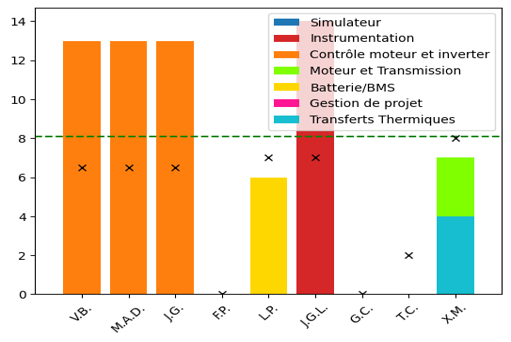
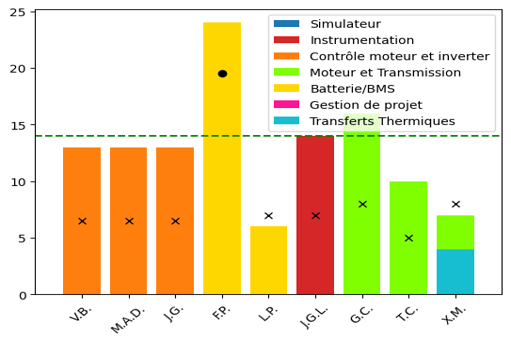
Création du template semaine6

diff --git a/tableauDeTaches.tex b/tableauDeTaches.tex
@@ -6,13 +6,13 @@
   }
     \hline
     tâches & Système & Responsable & État & Heure\\\hline
-      &   &   &   &  \\\hline
-      &   &   &   &  \\\hline
-      &   &   &   &  \\\hline
-      &   &   &   &  \\\hline
-      &   &   &   &  \\\hline
-      &   &   &   &  \\\hline
-      &   &   &   &  \\\hline
+    Créer modèle Mtalab et support modélisation D.T. transmission avec 3 scénarios, Direct Drive, 1 ratio réduction et 2 ratios de réduction & Moteur_et_Transmission & Thomas Chagnon & En Cours & 3.0\\\hline
+    Sortir et identifier les équations d'inertie, les relations de masse équivalente et les paramètres mécaniques roue & Transmission & Moteur_et_Transmission & Thomas Chagnon & En Cours & 3.0\\\hline
+    Identification des paramètres pour la modélisation (Résistances, Constantes, Surfaces, Convection,Conduction et Rayonnement & Transferts_Thermiques & Xavier Morin & En Cours & 4.0\\\hline
+    Bloc Batterie Modélisation & Simulateur & Xavier Morin & En Cours & 2.0\\\hline
+    Bloc Transmission Modélisation & Simulateur & Xavier Morin & En Cours & 1.0\\\hline
+    Génération courbes Torque mot et RPM mot en fonction de la vitesse véhicule et accélération véhicule & Moteur_et_Transmission & Xavier Morin & Terminé & 4.0\\\hline
+    Sortir et identifier les équations d'inertie, les relations de masse équivalente et les paramètres mécaniques roue & Transmission & Moteur_et_Transmission & Xavier Morin & En Cours & 3.0\\\hline
       &   &   &   &  \\\hline
       &   &   &   &  \\\hline
       &   &   &   &  \\\hline
